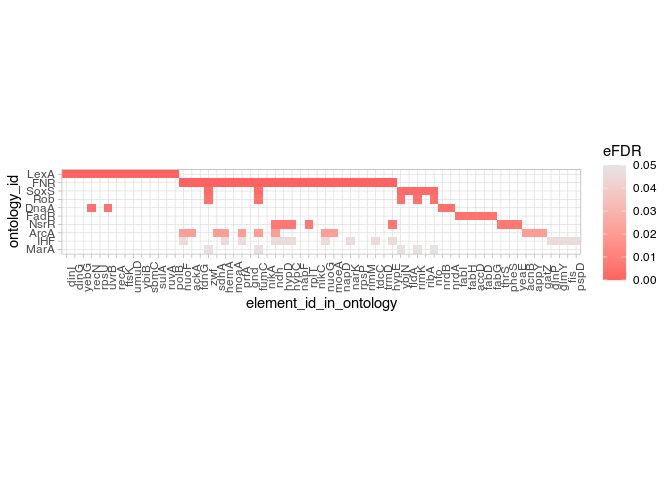
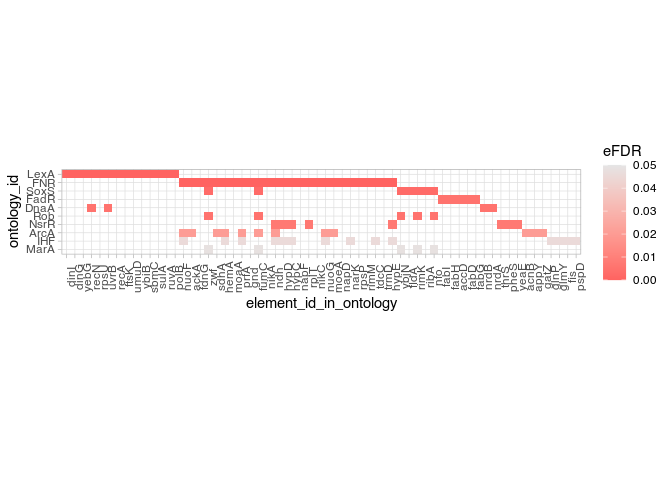
references by hand in vignette, readme was reknitted

diff --git a/README.md b/README.md
@@ -256,10 +256,10 @@ For further steps we will analyse a dataset from a microarray experiment
 ([GSE55662](https://www.ncbi.nlm.nih.gov/geo/query/acc.cgi?acc=GSE55662))
 in the NCBI Gene Expression Omnibus
 <img src="man/figures/geo_main.gif" alt="GEO" width="87" />. The study
-by [Méhi *et al.* (2014)](https://doi.org/10.1093/molbev/msu223)
-investigated antibiotic resistance evolution in *Escherichia coli*. Gene
-expression changes were compared between *ciprofloxacin*
-antibiotic-treated *Escherichia coli* bacteria and non-treated controls.
+by Méhi et al. (2014) investigated antibiotic resistance evolution in
+*Escherichia coli*. Gene expression changes were compared between
+*ciprofloxacin* antibiotic-treated *Escherichia coli* bacteria and
+non-treated controls.
 
 The expression levels of these groups were compared with the
 [GEO2R](https://www.ncbi.nlm.nih.gov/geo/geo2r/?acc=GSE55662) tool:
@@ -377,16 +377,16 @@ ora_results %>%
 
 | ontology_id | ontology_name | nr_common_with_tested_elements | nr_common_with_background_elements |   p_value |      eFDR |
 |:------------|:--------------|-------------------------------:|-----------------------------------:|----------:|----------:|
-| FNR         | FNR           |                             26 |                                259 | 0.0000003 | 0.0000000 |
 | LexA        | LexA          |                             14 |                                 53 | 0.0000000 | 0.0000000 |
-| SoxS        | SoxS          |                              7 |                                 37 | 0.0001615 | 0.0024667 |
-| Rob         | Rob           |                              5 |                                 21 | 0.0004717 | 0.0045000 |
-| DnaA        | DnaA          |                              4 |                                 13 | 0.0006281 | 0.0046000 |
-| FadR        | FadR          |                              5 |                                 20 | 0.0003692 | 0.0049500 |
-| NsrR        | NsrR          |                              8 |                                 64 | 0.0010478 | 0.0069571 |
-| ArcA        | ArcA          |                             12 |                                148 | 0.0032001 | 0.0206125 |
-| IHF         | IHF           |                             14 |                                205 | 0.0070758 | 0.0460800 |
-| MarA        | MarA          |                              5 |                                 37 | 0.0066068 | 0.0484778 |
+| FNR         | FNR           |                             26 |                                259 | 0.0000003 | 0.0001000 |
+| SoxS        | SoxS          |                              7 |                                 37 | 0.0001615 | 0.0027000 |
+| FadR        | FadR          |                              5 |                                 20 | 0.0003692 | 0.0051250 |
+| DnaA        | DnaA          |                              4 |                                 13 | 0.0006281 | 0.0051500 |
+| Rob         | Rob           |                              5 |                                 21 | 0.0004717 | 0.0052200 |
+| NsrR        | NsrR          |                              8 |                                 64 | 0.0010478 | 0.0073429 |
+| ArcA        | ArcA          |                             12 |                                148 | 0.0032001 | 0.0204250 |
+| IHF         | IHF           |                             14 |                                205 | 0.0070758 | 0.0455900 |
+| MarA        | MarA          |                              5 |                                 37 | 0.0066068 | 0.0483222 |
 
 ### Visualising the ORA Result
 
@@ -500,11 +500,11 @@ example, in a differential expression study, it should encompass all
 genes that were measured.
 
 `mulea` utilises the Kolmogorov-Smirnov approach with a permutation test
-(developed by (Subramanian et al. 2005)) to calculate gene set
+(developed by Subramanian et al. (2005)) to calculate gene set
 enrichment analyses. This functionality is implemented through the
 integration of the
 [`fgsea`](https://bioconductor.org/packages/release/bioc/html/fgsea.html)
-Bioconductor package (created by (Korotkevich et al. 2021)).
+Bioconductor package (created by Korotkevich et al. (2021)).
 
 GSEA requires input data about the genes analysed in our experiment.
 This data can be formatted in two ways:
@@ -574,7 +574,7 @@ gsea_results %>%
   filter(adjusted_p_value < 0.05) %>% 
   # the number of such rows
   nrow()
-#> [1] 7
+#> [1] 9
 ```
 
 Inspect the significant results:
@@ -589,13 +589,15 @@ gsea_results %>%
 
 | ontology_id | ontology_name | nr_common_with_tested_elements |   p_value | adjusted_p_value |
 |:------------|:--------------|-------------------------------:|----------:|-----------------:|
-| LexA        | LexA          |                             53 | 0.0000000 |        0.0000036 |
-| FNR         | FNR           |                            259 | 0.0000660 |        0.0050484 |
-| ArcA        | ArcA          |                            148 | 0.0003577 |        0.0104000 |
-| GlaR        | GlaR          |                              3 | 0.0003714 |        0.0104000 |
-| ModE        | ModE          |                             45 | 0.0002575 |        0.0104000 |
-| SoxS        | SoxS          |                             37 | 0.0004078 |        0.0104000 |
-| DnaA        | DnaA          |                             13 | 0.0005816 |        0.0127119 |
+| LexA        | LexA          |                             53 | 0.0000000 |        0.0000017 |
+| FNR         | FNR           |                            259 | 0.0000773 |        0.0059114 |
+| ModE        | ModE          |                             45 | 0.0002120 |        0.0108115 |
+| ArcA        | ArcA          |                            148 | 0.0008014 |        0.0175163 |
+| DnaA        | DnaA          |                             13 | 0.0005083 |        0.0175163 |
+| GlaR        | GlaR          |                              3 | 0.0005907 |        0.0175163 |
+| SoxS        | SoxS          |                             37 | 0.0007373 |        0.0175163 |
+| PaaX        | PaaX          |                             14 | 0.0027564 |        0.0474872 |
+| PspF        | PspF          |                              7 | 0.0027934 |        0.0474872 |
 
 ### Visualising the GSEA Results
 
@@ -856,7 +858,7 @@ sessionInfo()
 #>  [4] ggrepel_0.9.5       lattice_0.22-6      tzdb_0.4.0         
 #>  [7] vctrs_0.6.5         tools_4.4.0         generics_0.1.3     
 #> [10] curl_5.2.1          parallel_4.4.0      fansi_1.0.6        
-#> [13] highr_0.10          pkgconfig_2.0.3     Matrix_1.7-0       
+#> [13] highr_0.11          pkgconfig_2.0.3     Matrix_1.7-0       
 #> [16] data.table_1.15.4   lifecycle_1.0.4     compiler_4.4.0     
 #> [19] farver_2.1.2        munsell_0.5.1       ggforce_0.4.2      
 #> [22] fgsea_1.30.0        graphlayouts_1.1.1  codetools_0.2-20   
@@ -881,11 +883,11 @@ sessionInfo()
 
 To cite package `mulea` in publications use:
 
-C. Turek, M. Olbei, T. Stirling, G. Fekete, E. Tasnadi, L. Gul, B.
-Bohar, B. Papp, W. Jurkowski, E. Ari: mulea - an R package for
-enrichment analysis using multiple ontologies and empirical FDR
-correction. *bioRxiv* (2024),
-[doi:10.1101/2024.02.28.582444](https://doi.org/10.1101/2024.02.28.582444).
+Turek, Cezary, Márton Ölbei, Tamás Stirling, Gergely Fekete, Ervin
+Tasnádi, Leila Gul, Balázs Bohár, Balázs Papp, Wiktor Jurkowski, and
+Eszter Ari. 2024. “mulea - an R Package for Enrichment Analysis Using
+Multiple Ontologies and Empirical FDR Correction.” *bioRxiv*, March.
+<https://doi.org/10.1101/2024.02.28.582444.>
 
 # References
 
@@ -907,6 +909,15 @@ Fernandez, Qiaonan Duan, Zichen Wang, Simon Koplev, et al. 2016.
 “Enrichr: A Comprehensive Gene Set Enrichment Analysis Web Server 2016
 Update.” *Nucleic Acids Research* 44 (W1): W90–97.
 <https://doi.org/10.1093/nar/gkw377>.
+
+</div>
+
+<div id="ref-méhi2014" class="csl-entry">
+
+Méhi, Orsolya, Balázs Bogos, Bálint Csörgő, Ferenc Pál, Ákos Nyerges,
+Balázs Papp, and Csaba Pál. 2014. “Perturbation of Iron Homeostasis
+Promotes the Evolution of Antibiotic Resistance.” *Molecular Biology and
+Evolution* 31 (10): 2793–2804. <https://doi.org/10.1093/molbev/msu223>.
 
 </div>
 
